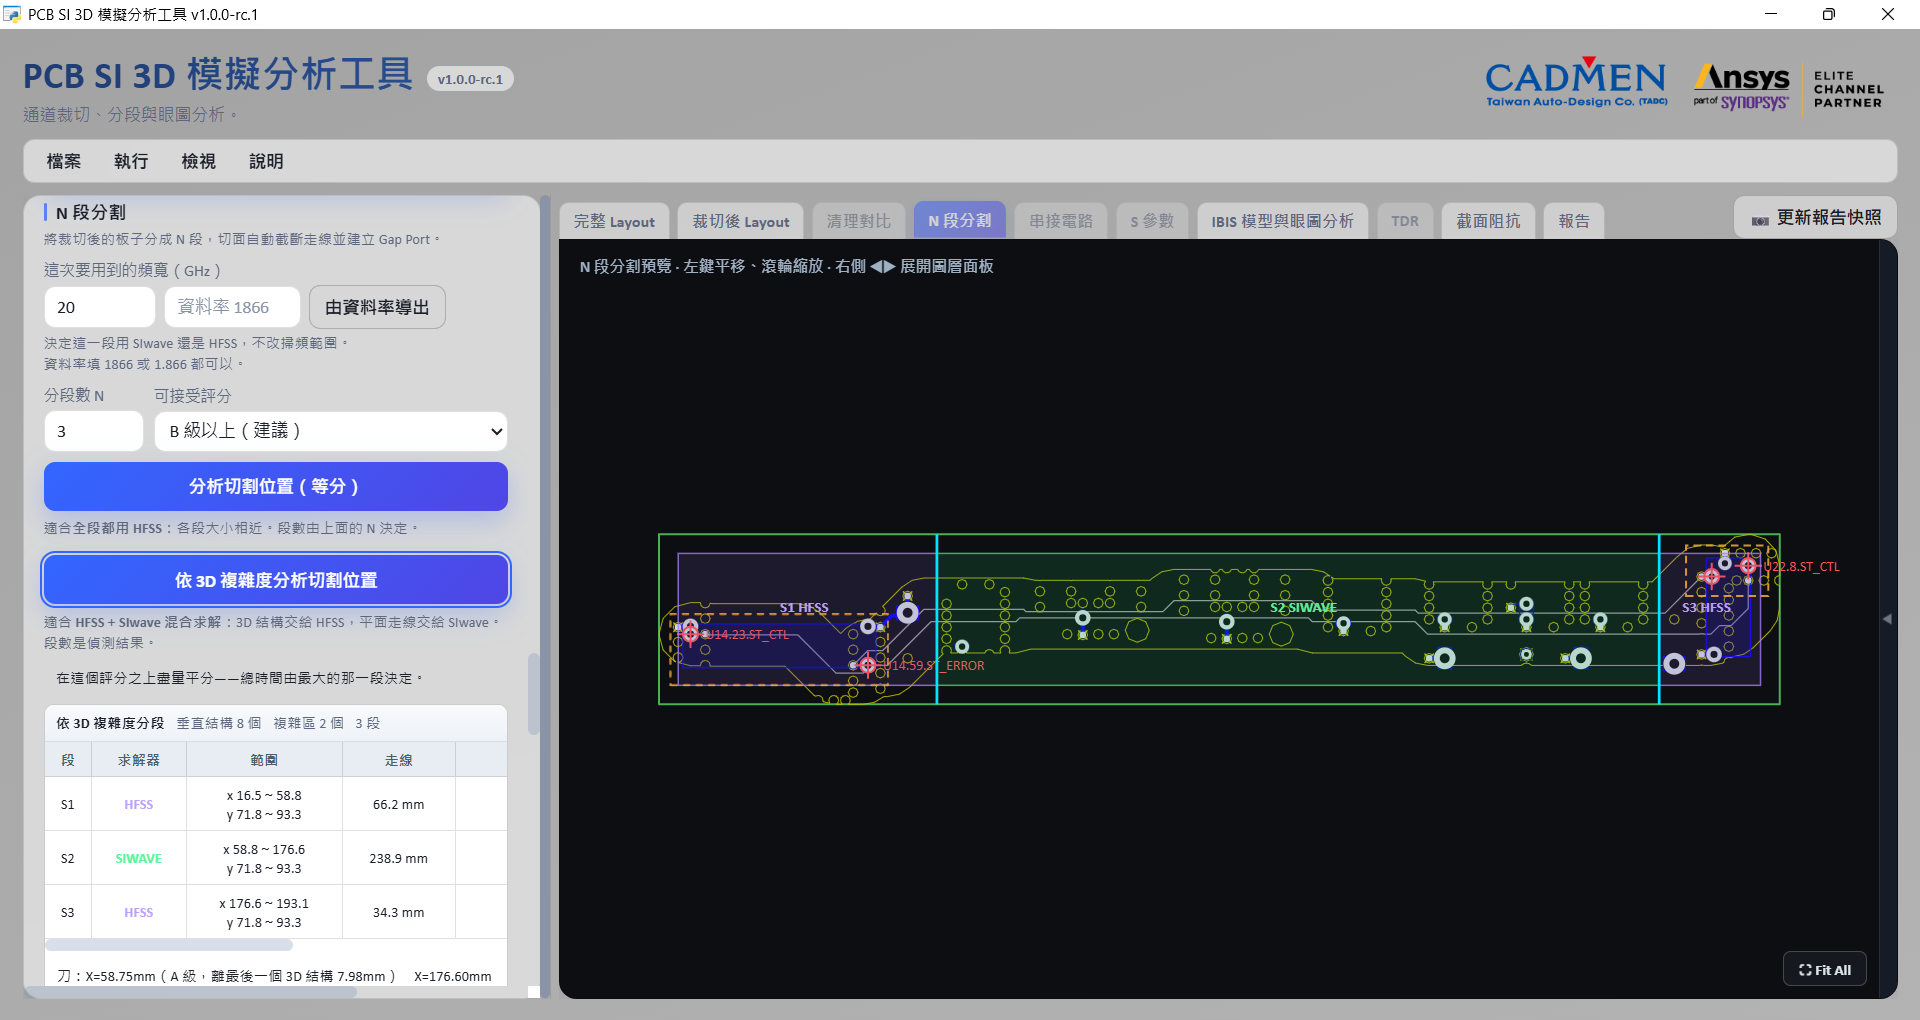
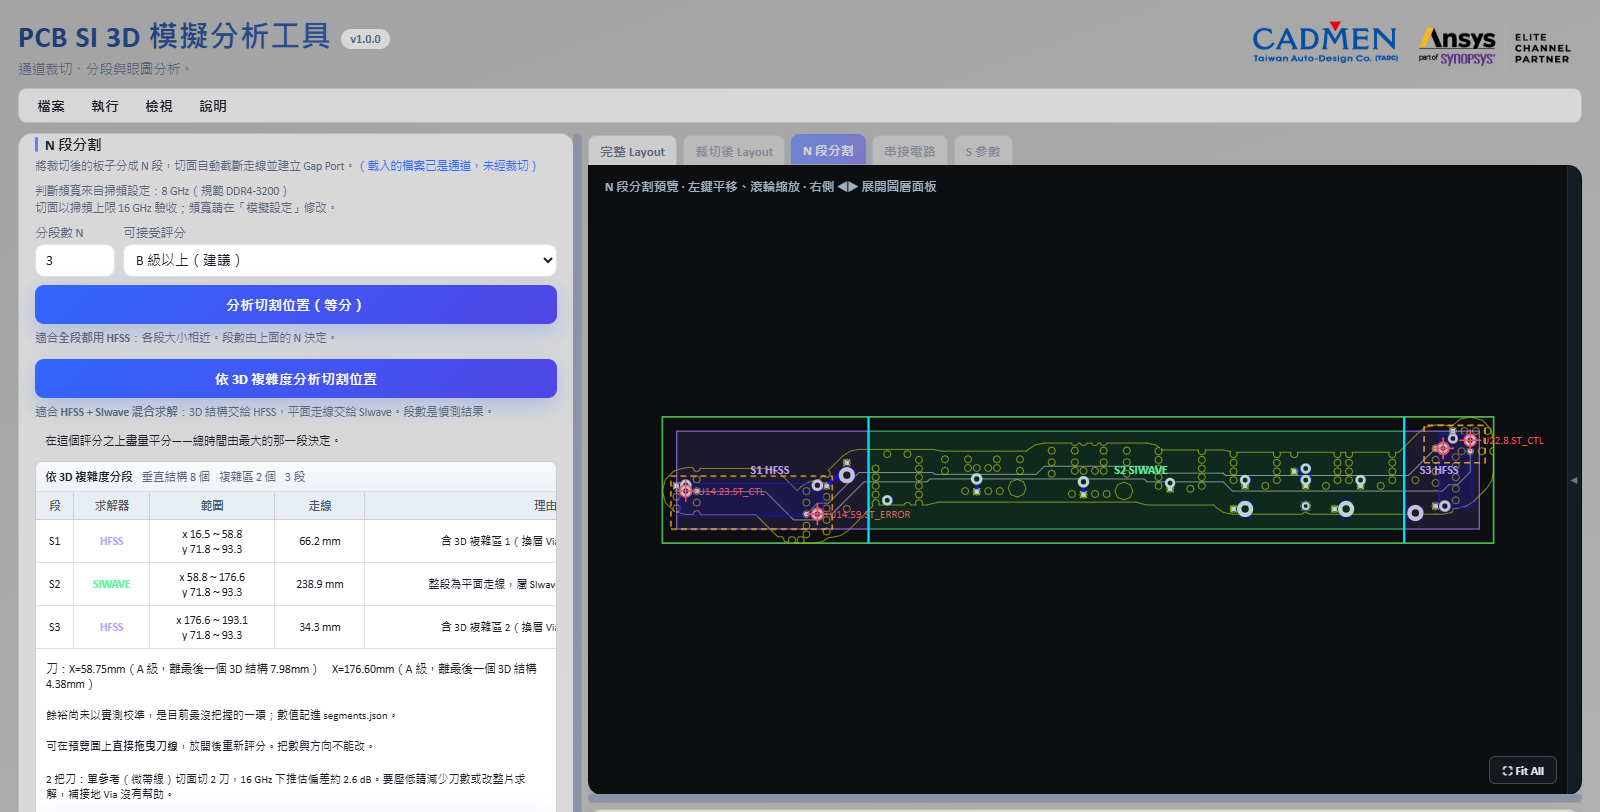
docs: 手冊同步 #0116 第二輪、#0120、#0121、#0122、#0130
- 02：新增「已裁切或已設 Port 的板子」（取消局部裁切載入、已有 Port 的提示與一鍵重新載入）
- 03：新增「判斷頻寬」一節（依規範／依資料率自訂、進階覆寫、切面以掃頻上限驗收）；設定檔套用會帶入判斷頻寬
- 04：分段第 1 步改為核對判斷頻寬；不分割預覽跟著指定求解器；疊圖兩顆開關；分段後改頻寬要重新評估
- 05：求解器建議看判斷頻寬；排程日誌的頻寬提示
- 06：本工具合成加入 PCIe／USB SerDes，沒有 AMI 等化不能判合規
- 10：已有 Port 的通道可直接整片／分段
- 重拍 gui-14、gui-15；新增 gui-04b、gui-15b、gui-17b（私有 92d8b10，隔離後端實際操作）
- CHANGELOG 未發布、圖片帳冊同步

diff --git a/docs/visual-assets.md b/docs/visual-assets.md
@@ -19,6 +19,7 @@
 | `gui-02-desktop-shell.png` | 01、README | 主圖 | 現行工具視窗框、版本、選單與工作區；無任何載入路徑 | 無 | 完成 |
 | `gui-03-help-menu.png` | 01、11 | 主圖 | 展開說明選單，包含支援包、授權、在瀏覽器開啟 | 無 | 完成 |
 | `gui-04-loaded-layout.png` | 00、02 | 主圖 | 示範板已載入、訊號與參考已選；隱藏輸入路徑，保留 Layout | 資料 | 完成 |
+| `gui-04b-existing-ports-hint.png` | 02 | 新增圖 | 勾著「局部裁切」載入已設 Port 的板：提示、「改成不裁切並重新載入」與預選訊號網路；不含輸入路徑 | 已裁切並設 Port 的示範板複本 | 區域圖：私有 `92d8b10`（1.0.0），瀏覽器模式 1600×1000 截左欄 557×189，2026-10-12 |
 | `gui-05-net-selection.png` | 02 | 主圖 | 已選訊號、參考與端點關係；截網路清單與圖，不含輸入檔面板 | 資料 | 併入 gui-04（同一畫面） |
 | `gui-06-cutout-settings.png` | 02 | 主圖 | 裁切範圍設定與預覽，拍到使用者該核對的邊界 | 資料 | 完成 |
 | `gui-07-cutout-result.png` | 00、02 | 主圖 | 「裁切後 Layout」真實結果，沒有舊差異填色 | 資料 | 完成 |
@@ -28,10 +29,12 @@
 | `gui-11-cleanup-settings.png` | 02 | 主圖 | 建議電磁範圍、0.2 mm、40 dB 與清理預覽 | 資料 | 區域圖：`30c8ff8` 只裁切即可分析；本板候選 0 |
 | `gui-12-cleanup-comparison.png` | 02 | 主圖 | 清理前後結果與差異密集區，不只截設定面板 | 資料 | 缺項：裁切只保留選定網路，候選 0 時「另存並執行」停用，沒有對比可拍 |
 | `gui-13-port-endpoints.png` | 03 | 主圖 | 建議端點、Port 自動／Coax／Pin Group 與建立完成摘要 | 資料 | 完成 |
-| `gui-14-solve-profile.png` | 03 | 主圖 | 內建唯讀規格／個人設定檔、Phi、三段式掃頻與核心 12 的實際欄位 | 資料 | 完成 |
-| `gui-15-segment-analysis.png` | 04、README | 主圖 | 3D 複雜度分析後切線、評級與安全疊圖；README 主圖候選 | 資料 | 完成 |
+| `gui-14-solve-profile.png` | 03 | 主圖 | 套用內建 DDR4-3200 後的判斷頻寬（依規範 8 GHz、切面以 16 GHz 驗收）與多段掃頻表 | 資料 | 區域圖：2026-10-12 重拍，私有 `92d8b10`，瀏覽器模式截左欄 557×599（模擬設定標題到「新增掃頻段」） |
+| `gui-15-segment-analysis.png` | 04、README | 主圖 | 3D 複雜度分析後切線、評級；分段頁顯示判斷頻寬來源與切面驗收頻率 | 資料 | 完成：2026-10-12 重拍，私有 `92d8b10`，瀏覽器模式 1600×1000 裁到 812（底部輸出資料夾欄位不收），圖層面板收合、日誌清空 |
+| `gui-15b-segment-overlays.png` | 04 | 新增圖 | 等分 N=3：「板子禁切／風險」與「切點診斷」兩顆開關都開，斜線禁切區與灰虛線理想位置可辨識 | 資料 | 區域圖：私有 `92d8b10`，只截預覽畫布 994×630，2026-10-12 |
 | `gui-16-segment-solvers.png` | 04 | 主圖 | 每段建議／指定求解器表與整體區域，顯示手動改派的效果 | 資料 | 區域圖 |
 | `gui-17-segment-result.png` | 04 | 主圖 | 實際分段完成後整體／各段選擇列與一段 Layout | 資料 | 完成 |
+| `gui-17b-whole-board-preview.png` | 04 | 新增圖 | 「不分割，整片求解」後整塊板一個求解區域，標「整片 HFSS · 98」，先前的切線不再畫出 | 資料 | 區域圖：私有 `92d8b10`，只截預覽畫布 994×630，2026-10-12；另驗證改指定 SIwave 後標籤變「整片 SIWAVE · 98」（未收圖） |
 | `gui-18-schedule-progress.png` | 05 | 主圖 | 現行混合排程進度，求解器、狀態、經過時間與完整進度文字 | 求解 | 完成：`ada739a`，HFSS 段 Adaptive Pass 5、Delta S；求解後停止，結果不採用 |
 | `gui-19-siwave-stopping.png` | 05、11 | 主圖 | 關掉原生提示後的「停止中…」與「等待本段解完，結果不採用」 | 求解 | 完成：`ada739a`，SIwave 段按停止，等這段解完（結果不採用） |
 | `gui-20-window-stopping.png` | 01、05 | 主圖 | 真實關窗確認後的停止遮罩、工作列表與經過時間；不選「不等了」 | 求解 | 完成：`ada739a`，HFSS 段求解中關窗，乾淨停止遮罩（等 12 秒）；另有確認框補圖 20b |
@@ -86,6 +89,10 @@
 ## 重拍記錄（2026-10-11，眼圖不疊量測表）
 
 眼圖圖片改成預設不疊 AEDT 量測表（量測值仍在「眼圖參數」抽屜與 HTML 報告）後，以 `84ee41f` 重拍 `gui-27-wizard-result.png`、`gui-27b-wizard-result-params.png`；同一套隔離後端與 Ansys 範例 AMI 模型，快速檢驗實跑一次（工具自開非圖形 AEDT，完成後自行關閉）。逐張回看：眼圖上沒有量測表、抽屜數值齊全，無本機路徑、使用者／客戶名。
+
+## 重拍記錄（2026-10-12，判斷頻寬、不分割預覽、從中途開始、分段疊圖）
+
+前端同步到私有 `92d8b10` 後，隔離後端（獨立資料目錄、範例板複本）與 headless Chrome 實際操作：勾著局部裁切載入已設 Port 的 `Example_SYZ` 裁切複本 → 一鍵改成不裁切重新載入 → 套用內建 DDR4-3200 → 複雜度分析 → 等分 N=3 → 不分割。未求解、未占求解授權。重拍 `gui-14`、`gui-15`，新增 `gui-04b`、`gui-15b`、`gui-17b`。只用工具本身的操作（收合圖層面板、清除日誌）與裁切避開路徑欄位，沒有改 DOM 或修圖。逐張回看：無本機路徑、使用者／客戶名、token。
 
 ## 舊圖處理
 

diff --git a/docs/manual/04-分段與混合求解.md b/docs/manual/04-分段與混合求解.md
@@ -10,16 +10,22 @@
 
 在「N 段分割」按「不分割，整片求解」，通道登記為第 1 段並輸出 `segments.json`，不建立切面 Port。後續串接直通；沒有元件端 Port 不能完成這條流程。
 
+預覽標題變成「整體 Layout（不分割，整片求解）」，整塊板畫成一個求解區域，標籤是「整片 ＋ 指定求解器 ＋ 複雜度分數」。在下方「混合求解區域」把 S1 改成 SIwave，預覽跟著變；先前等分或複雜度分析留下的切線不會再畫出來。
+
+![不分割：整塊板一個求解區域，標「整片 HFSS · 98」](../../graph/gui-17b-whole-board-preview.png)
+
 比較整片與分段時，用相同幾何、求解器、掃頻與收斂設定，才能判斷差異是否來自分段。
 
 <a id="操作步驟"></a>
 ## 分段操作
 
-1. 填工作頻寬；「由資料率導出」供估算建議，**不等於已確認掃頻設定**。
+1. 核對面板上方的「判斷頻寬來自掃頻設定：…」與「切面以掃頻上限 … GHz 驗收」。要改頻寬回「模擬設定」，見 [03 判斷頻寬](03-Port與求解設定.md#判斷頻寬)。
 2. 選主方向等分分析或「依 3D 複雜度分析切割位置」。前者依設定的 N 搜尋切點，後者依路徑不連續分配區域。
 3. 選可接受評級，執行分析。
 4. 檢查段長、切面交點、障礙淨空與參考縫合。門檻不可行就重新調整，不把遭拒候選當切點。
 5. 指定新的輸出資料夾，執行分段；確認每段成功及 `segments.json` 已產生。
+
+面板顯示「還不能分段：請先裁切並建立 Port」時，板子若其實已經裁切過，按「調整項目」取消「局部裁切」再載入即可，見 [02 已裁切或已設 Port 的板子](02-載入與裁切.md#已裁切或已設-port-的板子)。
 
 <a id="切面品質分級"></a>
 ### 評級
@@ -34,12 +40,27 @@
 
 工具不會因找不到 B 級就自行降成 C 級。段長差異過大時先看警示，調切線／段數或改整片。
 
-![依 3D 複雜度分析切割位置](../../graph/gui-15-segment-analysis.png)
+![依 3D 複雜度分析切割位置：判斷頻寬 8 GHz（規範 DDR4-3200）、切面以 16 GHz 驗收](../../graph/gui-15-segment-analysis.png)
+
+### 疊圖開關
+
+等分分析後，預覽左上角有兩顆開關，各自有東西可畫才出現：
+
+| 開關 | 畫什麼 | 跟段數有關嗎 |
+|---|---|---|
+| 板子禁切／風險 | 斜線禁切區間、硬擋 Pad 框、45 度斜走線 | 無關，換 N 不變 |
+| 切點診斷 | 本次 N 的理想等分位置（灰虛線）、附近被拒絕的候選（板緣紅色刻度） | 隨 N 改變 |
+
+切點落不到理想位置時，先看是哪一種禁切擋住，再決定改 N、改評級門檻或整片求解。
+
+![等分 N=3：斜線為板子禁切區間，灰虛線為理想等分位置](../../graph/gui-15b-segment-overlays.png)
 
 <a id="混合求解與刀線微調"></a>
 ## 切線與求解器
 
-複雜度分析後可在預覽拖曳切線，放開會重新評分；需要還原按「回到自動刀線」。看「安全疊圖」核對障礙、遭拒候選與採用切面，看「求解區域」核對各段範圍。切面離 3D 結構的餘裕尚未以實測校準，不能只靠距離數字放行。
+複雜度分析後可在預覽拖曳切線，放開會重新評分；需要還原按「回到自動刀線」。用上面兩顆疊圖開關核對禁切區與遭拒候選，看「求解區域」核對各段範圍。切面離 3D 結構的餘裕尚未以實測校準，不能只靠距離數字放行。
+
+分段後才改判斷頻寬，分段頁會出現「分段時以 X 判斷，現在是 Y；請重新評估求解器」。按「用這個頻寬重新評估求解器」更新建議，再逐段核對「指定」欄。
 
 在「混合求解區域」逐段選 HFSS／SIwave，或按「套用自動建議」、「全部 HFSS」、「全部 SIwave」。看判斷原因：Via、換層、元件端 launch 與參考不連續需要特別注意。**自動建議與信心值不代表結果已驗證**；覆寫建議後記下理由。
 

diff --git a/docs/manual/03-Port與求解設定.md b/docs/manual/03-Port與求解設定.md
@@ -41,17 +41,40 @@
 | Error Tolerance／Max Refinement | 0.1%／15% |
 | Min Converged／Max Passes／Max Delta S | 2／20／0.02 |
 
-第三段上限依工作頻寬調整。上限 ≥20 GHz 用 50 MHz；低於 20 GHz 分段縮小低頻步距，不把初始 50 MHz 一律套用。交付結果需記下實際頻段與步距。特定求解設定不接受 0 Hz 時，記錄錯誤再處理，不能默默刪掉。
+第三段上限依規範或資料率調整（見下方[判斷頻寬](#判斷頻寬)與[設定檔](#內建規格設定檔)）。上限 ≥20 GHz 用 50 MHz；低於 20 GHz 分段縮小低頻步距，不把初始 50 MHz 一律套用。交付結果需記下實際頻段與步距。特定求解設定不接受 0 Hz 時，記錄錯誤再處理，不能默默刪掉。
 
 <a id="自適應方式預設是寬頻"></a>
 寬頻自適應範圍隨掃頻上限推導；也可選多頻或單頻。**收斂不代表高頻反射一定正確**，自適應範圍需覆蓋本次分析需求。套用後查看日誌，若方式回退，先核對實際值再求解。掃頻給 HFSS／SIwave 使用，其餘 HFSS 設定不等於 SIwave 設定。
 
-![求解設定：三段式掃頻與 Phi](../../graph/gui-14-solve-profile.png)
+<a id="判斷頻寬"></a>
+## 判斷頻寬
+
+求解器建議看的是「這次要用到幾 GHz」，不是掃到幾 GHz。在「模擬設定」的「判斷頻寬（求解器建議用）」二選一；分段頁只顯示，不能改。
+
+| 來源 | 怎麼設 | 畫面顯示的來源 |
+|---|---|---|
+| 依規範 | 「設定檔」選內建規格並按「套用」 | 規範 DDR4-3200 |
+| 依資料率自訂 | 填資料率（`1866` 或 `1.866` 都收），按「由資料率導出」 | 資料率 1.866 Gbps 導出 |
+| 進階覆寫（優先於上面兩者） | 展開「進階：手動覆寫判斷頻寬」填 GHz；留空＝不覆寫 | 進階覆寫 |
+| 都沒有 | — | 未指定，跟掃頻上限 |
+
+| 規則 | 說明 |
+|---|---|
+| 判斷用途 | ≤7 GHz 建議 SIwave，否則依幾何複雜度。**切面一律以掃頻上限驗收**，不看判斷頻寬 |
+| 兩邊各自保留 | 切到另一邊只改「用哪一個」，切回來原值還在 |
+| 高於掃頻上限 | 黃字警告：需求頻段不會被求解涵蓋。先把掃頻上限拉高，不要只改判斷頻寬 |
+| 導出時的掃頻表 | 掃頻表還是預設三段時會問「要把末段上限改為 X 嗎」，按「取消」只更新判斷頻寬；表改過或來自規範就不動，只附建議上限 |
+| 覆寫填 0 或負值 | 紅字「目前沒有採用」，沿用規範或資料率的值 |
+| 資料率改了沒重新導出 | 提示「請按『由資料率導出』更新」 |
+
+![模擬設定：套用 DDR4-3200 後，判斷頻寬 8 GHz（依規範）、切面以掃頻上限 16 GHz 驗收](../../graph/gui-14-solve-profile.png)
 
 <a id="內建規格設定檔"></a>
 ## 設定檔
 
 在「設定檔」選「內建規格（唯讀）」並套用，檢查掃頻上限與自適應值。內建規格不能覆寫／刪除；要調整就另存個人設定檔。內建檔不包含裁切外擴與形狀。
+
+套用內建規格會把判斷頻寬切到「依規範」並帶入該規範的值。若會換掉已經在用的判斷頻寬（例如目前是依資料率自訂），先跳確認框；按「取消」整份不套用。掃頻上限低於 20 GHz 的規格（如 DDR4-3200）帶入的是多段 `Linear Step`，低頻步距較小。
 
 | 內建規格 | 掃頻上限 |
 |---|---|

diff --git a/docs/manual/06-IBIS與眼圖.md b/docs/manual/06-IBIS與眼圖.md
@@ -49,17 +49,19 @@
 
 ## 沒有模型：本工具合成
 
-依 JEDEC 規範參數由工具自己算出 IBIS：不呼叫 SPISim、不讀 Ansys 檔案、不占授權。
+依規範參數（JEDEC、PCI-SIG、USB-IF）由工具自己算出 IBIS：不呼叫 SPISim、不讀 Ansys 檔案、不占授權。
 
-1. 同一個區塊用右邊「本工具合成」（畫面見上一節的圖）。選規範（DDR2～DDR5、LPDDR2～LPDDR5X）與角色（Tx、Rx 或 Tx＋Rx）。
+1. 同一個區塊用右邊「本工具合成」（畫面見上一節的圖）。選規範與角色（Tx、Rx 或 Tx＋Rx）：DDR2～DDR5、LPDDR2～LPDDR5X，或差動 SerDes（PCIe Gen3～Gen5、USB 3.2 Gen1／Gen2、USB4 Gen2／Gen3）。
 2. 資料率、C_comp、斜率留空就用規範預設；展開「參數與出處」核對每個值的出處。標「待確認」的欄位要自己填，否則不能合成。
-3. 按「合成並匯入」。Tx 每個 Ron 一個模型、Rx 每個 ODT 一個模型＋關閉，在眼圖精靈第 3 步用 `[Model Selector]` 挑。
+3. 按「合成並匯入」。DDR：Tx 每個 Ron 一個模型、Rx 每個 ODT 一個模型＋關閉，在眼圖精靈第 3 步用 `[Model Selector]` 挑。SerDes：差動 Tx（Output）＋Rx（Input）各一個。
 
 | 必須知道 | 說明 |
 |---|---|
 | 不是原廠、也不是 SPISim | 模型庫顯示藍色「本工具合成」徽章；SPISim 產生的是橘色。詳細資料、眼圖結果頁與報告都標得出來源 |
 | 出處 | 每個預設值附公開資料表與頁碼；查不到的標「待確認」、不代填。LPDDR5／5X 目前只有 VDDQ 有公開出處，Ron、ODT、斜率、C_IO 要自己填 |
 | DDR5 Rx 沒有 DFE | 只有 IBIS；用到它的眼圖標「未含 DFE，結果偏悲觀」 |
+| SerDes 沒有 AMI | 只有 IBIS、沒有 FFE／CTLE／DFE：眼圖偏悲觀、可能全閉，**不能判合規**。合成面板、模型庫詳細資料、眼圖結果頁與報告都標「沒有 AMI 等化」。每個 SerDes 規範都有查不到公開出處的欄位（PCIe Gen3 的上升時間與 pad 電容、PCIe Gen4／Gen5 的全部電氣參數、USB 3.2 的上升時間、USB4 的擺幅與 pad 電容），標「待確認」要自己填 |
+| SerDes 沒有斜率欄位 | 只填每腳阻抗、Tx 擺幅、Tx 上升時間與 pad 電容；C_comp 欄對應 pad 電容 |
 | 模型簡化 | I-V 為直線、封裝 R/L/C＝0；R 容差查不到，角落只有 VDDQ 與斜率。簽核換原廠模型 |
 | C_comp 檢查 | 和 SPISim 產生的一樣，依資料率檢查 τ／UI |
 

diff --git a/CHANGELOG.md b/CHANGELOG.md
@@ -9,6 +9,11 @@
 | SPISim Rx 非 POD 提醒 | SPISim 規格模型的 Rx 是上下分壓或只接地，不是 POD（DDR5-6400 實測眼高 295 mV 對合成 550 mV）；「SPISim 產生」常駐提醒，用到 SPISim Rx 的眼圖與報告會標示 | [06](docs/manual/06-IBIS與眼圖.md#沒有模型從-aedt-內建規格產生spisim) |
 | 常見規範預設 | 眼圖精靈補 DDR2-800、DDR3-1600、DDR3L-1600、LPDDR2-1066、LPDDR3-2133 | [06](docs/manual/06-IBIS與眼圖.md#眼圖精靈五步) |
 | 修正 | 一鍵 HTML 報告的模型來源中繼資料不再是空白 | [09](docs/manual/09-報告與輸出.md) |
+| 合成 SerDes 規格模型 | 本工具合成加入 PCIe Gen3～Gen5、USB 3.2 Gen1／Gen2、USB4 Gen2／Gen3，產生差動 Tx＋Rx；只有 IBIS、沒有 AMI 等化，各處標「不能判合規」。模型庫展開摺疊區後可捲動 | [06](docs/manual/06-IBIS與眼圖.md#沒有模型本工具合成) |
+| 判斷頻寬 | 求解器建議用的頻寬移到「模擬設定」，依規範／依資料率自訂二選一，兩邊各自保留；進階覆寫優先。切面一律以掃頻上限驗收。分段後改頻寬會提示重新評估；排程日誌提示頻寬與掃頻對不上 | [03](docs/manual/03-Port與求解設定.md#判斷頻寬)、[04](docs/manual/04-分段與混合求解.md#分段操作)、[05](docs/manual/05-排程與串接.md#排程求解) |
+| 不分割預覽 | 「不分割，整片求解」後，預覽整塊板一個求解區域，標籤跟著指定的求解器 | [04](docs/manual/04-分段與混合求解.md#不分割整片求解) |
+| 從中途開始 | 已裁切／已設 Port 的板子取消「局部裁切」直接載入；勾著局部裁切載入已有 Port 的板會提示，一鍵改成不裁切重新載入；訊號網路依既有 Port 預選 | [02](docs/manual/02-載入與裁切.md#已裁切或已設-port-的板子) |
+| 分段疊圖兩顆開關 | 「板子禁切／風險」（禁切區間、硬擋 Pad、斜走線，與段數無關）與「切點診斷」（理想等分位置、被拒絕候選，隨段數改變） | [04](docs/manual/04-分段與混合求解.md#疊圖開關) |
 
 ## v1.0.0（2026-10-11）：第一版
 

diff --git a/docs/manual/05-排程與串接.md b/docs/manual/05-排程與串接.md
@@ -16,7 +16,15 @@
 有 HPC 授權／核心錯誤才改 4 cores，保留錯誤原因；不要低於 4。可用授權從「說明」查詢，詳見 [11](11-疑難排解.md)。
 
 <a id="求解器建議怎麼評分"></a>
-求解器建議看訊號路徑的三維不連續與參考狀態，確認方式見 [04](04-分段與混合求解.md#混合求解與刀線微調)。不要把建議分數當成通過精度驗收。
+求解器建議看訊號路徑的三維不連續與參考狀態，以及[判斷頻寬](03-Port與求解設定.md#判斷頻寬)（≤7 GHz 建議 SIwave）；確認方式見 [04](04-分段與混合求解.md#混合求解與刀線微調)。不要把建議分數當成通過精度驗收。
+
+開始排程時，日誌若出現 `[頻寬] 注意：…` 只是提示、不會擋下：
+
+| 提示 | 代表什麼 |
+|---|---|
+| 判斷頻寬高於這次掃頻上限 | 需求頻段沒有被求解涵蓋；先拉高掃頻上限 |
+| 切面以 X GHz 驗收，這次掃到 Y GHz | X GHz 以上的切面縫合沒有驗證；要涵蓋就用目前的掃頻重新分段 |
+| segments.json 沒有記錄切面驗收頻率 | 較舊的分段結果，切面可能只以 Via 顆數驗收；同上，用目前的掃頻重新分段 |
 
 ![排程中：HFSS 段的自適應進度與 Delta S](../../graph/gui-18-schedule-progress.png)
 

diff --git a/docs/manual/02-載入與裁切.md b/docs/manual/02-載入與裁切.md
@@ -16,6 +16,20 @@
 
 ![示範板已載入，訊號與參考已選](../../graph/gui-04-loaded-layout.png)
 
+<a id="已裁切或已設-port-的板子"></a>
+## 已裁切或已設 Port 的板子
+
+從中途開始，不必重裁：
+
+| 板子狀態 | 做法 | 接哪一步 |
+|---|---|---|
+| 已裁切，還沒有 Port | 「調整項目」取消「局部裁切」，按鈕變成「載入檔案（不裁切）」 | [03 建立 Port](03-Port與求解設定.md) |
+| 已裁切，已有元件端 Port | 同上；訊號網路依既有 Port 預選 | [04 整片或分段](04-分段與混合求解.md) |
+
+勾著「局部裁切」載入了一塊已有元件端 Port 的板，載入按鈕下方會提示「這塊板已經有 N 個元件端 Port……照目前的『局部裁切』會再裁一次」。按「改成不裁切並重新載入」即可，不必回入口。預選的訊號網路與參考網路仍要自己核對。
+
+![勾著局部裁切載入已設 Port 的板：提示與一鍵改成不裁切](../../graph/gui-04b-existing-ports-hint.png)
+
 <a id="選擇訊號與參考網路"></a>
 ## 選訊號與參考
 

diff --git a/docs/manual/10-其他工作模式.md b/docs/manual/10-其他工作模式.md
@@ -11,7 +11,7 @@
 1. 勾「載入電路板」，取消子項「局部裁切」。
 2. 確認按鈕顯示「載入檔案（不裁切）」，瀏覽通道 EDB 並載入。
 3. 選訊號與參考，確認所需端點與回流都存在。
-4. 需要求解時先完成 [Port 與設定](03-Port與求解設定.md)，再[整片／分段](04-分段與混合求解.md)。
+4. 需要求解時先完成 [Port 與設定](03-Port與求解設定.md)，再[整片／分段](04-分段與混合求解.md)。板上已有元件端 Port 時可直接整片／分段，見 [02](02-載入與裁切.md#已裁切或已設-port-的板子)。
 
 此入口不會代建 Port／Setup。完成判據：通道幾何、訊號與外部端點正確；不能僅因載入成功就開始串接。
 
